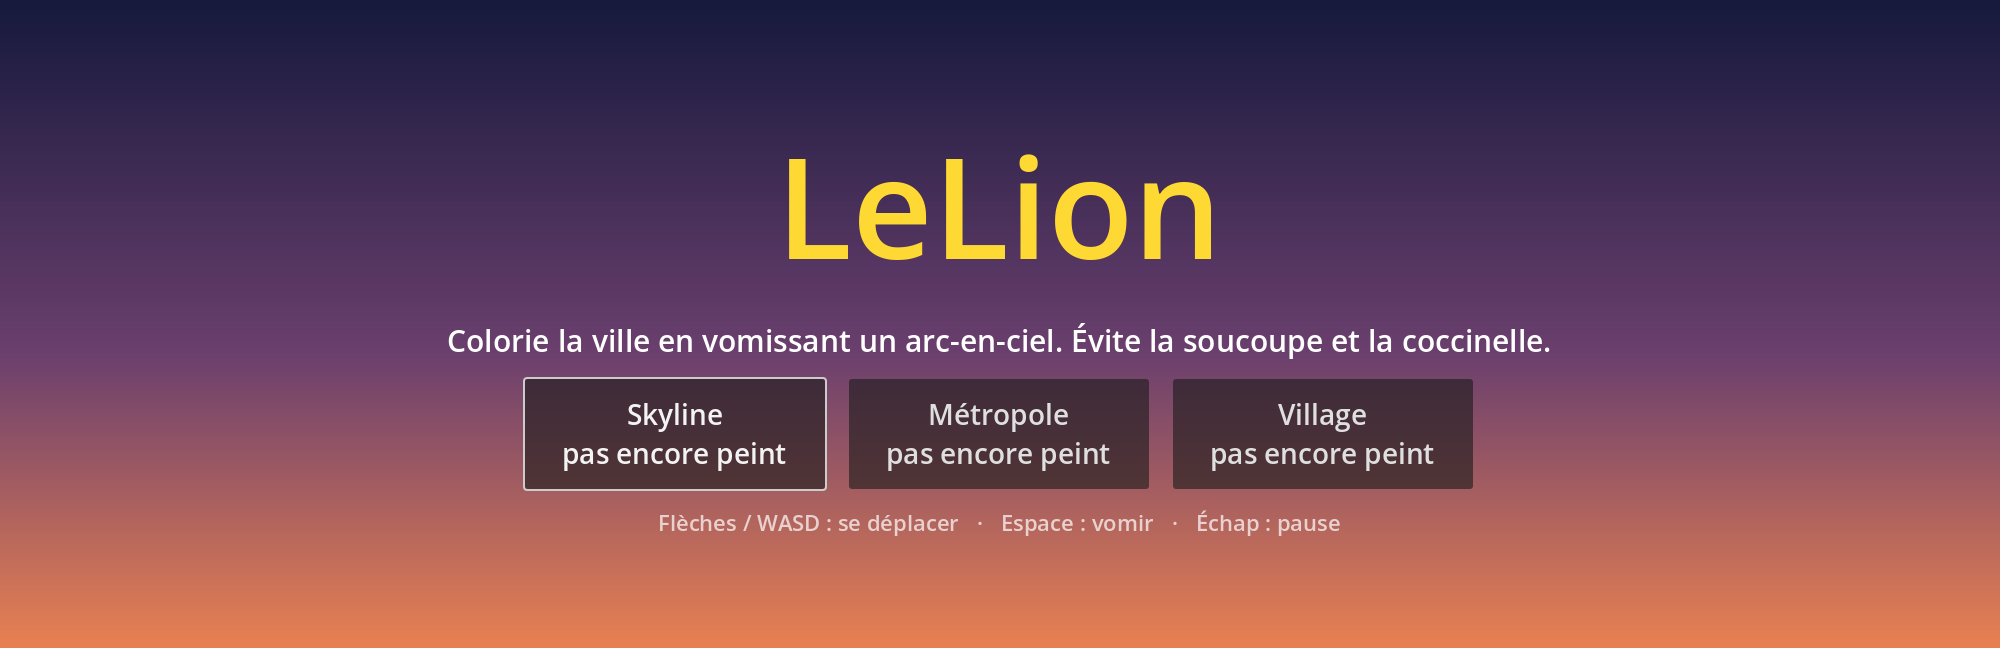
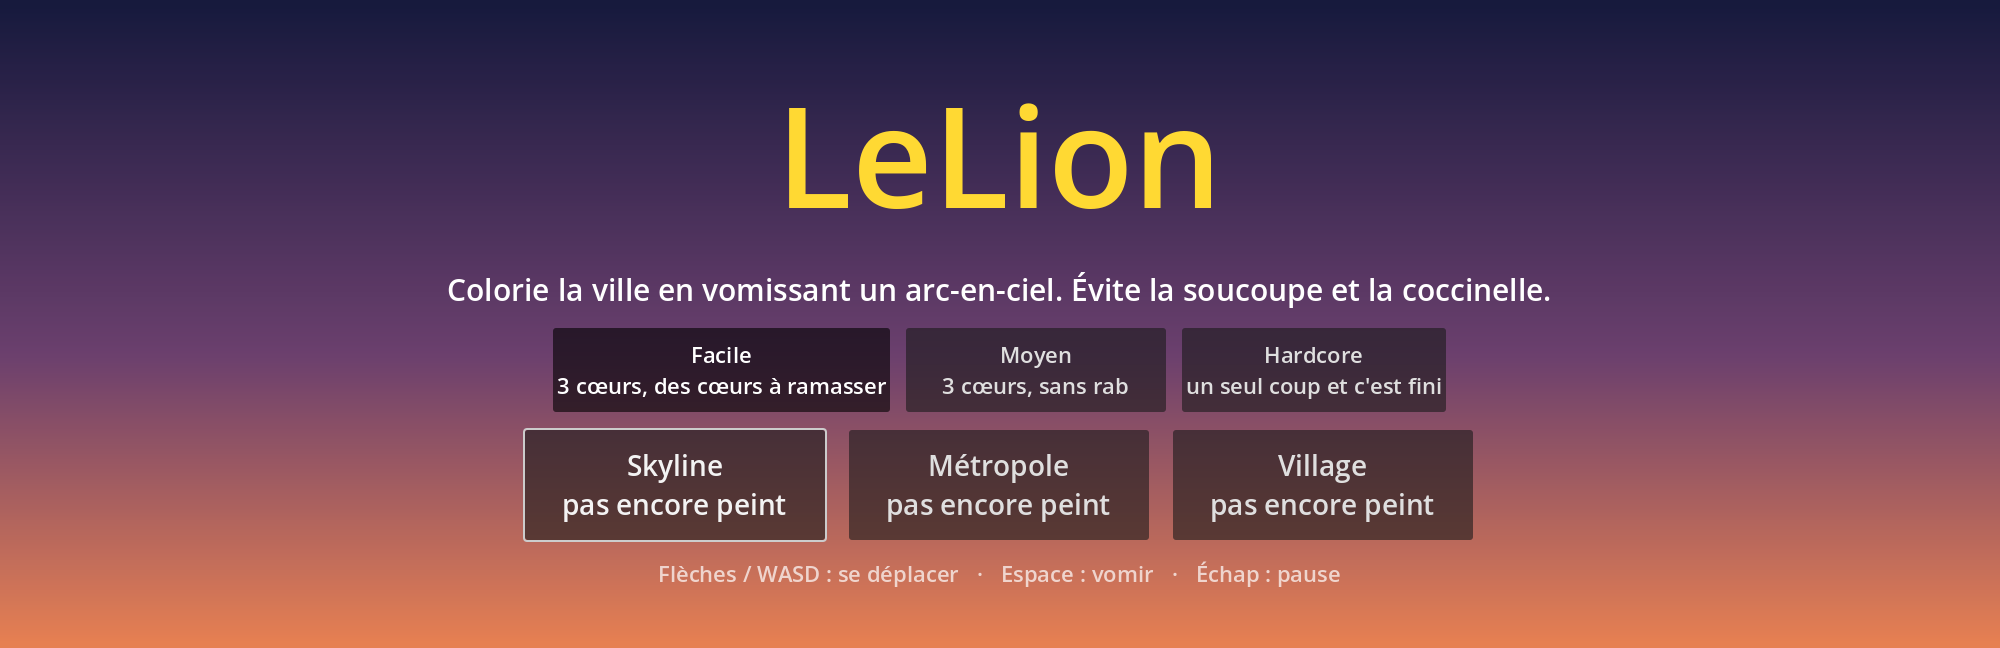
Modes de difficulté : Facile, Moyen, Hardcore
- GameState : DIFFICULTES, vies, toucher_lion() avec 1,5 s d'invulnérabilité, gagner_vie()
- Facile : 3 cœurs + cœurs à ramasser (CoeurPickup, sprite généré) ; Moyen : 3 cœurs ;
  Hardcore : un seul coup
- Lion : clignote pendant l'invulnérabilité ; ennemis : passent par toucher_lion()
- HUD : cœurs (perdus en grisé, masqués au-delà du maximum de la difficulté)
- Titre : rangée de choix de difficulté au-dessus des niveaux, records par niveau/difficulté
- smoke test : 52 assertions

diff --git a/tools/generer_skylines.py b/tools/generer_skylines.py
@@ -1,6 +1,6 @@
 #!/usr/bin/env python3
 """Génère des silhouettes de skyline (PNG RGBA, bâtiments noirs sur fond transparent)
-dans Assets/Sprites, ainsi que le sprite du bonus Gerbe XXL.
+dans Assets/Sprites, ainsi que les sprites du bonus Gerbe XXL (étoile) et de vie (cœur).
 
 Usage : python3 tools/generer_skylines.py
 """
@@ -135,7 +135,21 @@ def etoile(taille=64):
     t.png(DOSSIER / "etoile.png", couleur=(255, 255, 255))
 
 
+def coeur(taille=64):
+    """Cœur blanc (à teinter par modulate) : deux disques et un triangle."""
+    t = Toile(taille, taille)
+    for y in range(taille):
+        for x in range(taille):
+            # équation implicite du cœur, repère centré, y vers le haut
+            px = (x - taille / 2 + 0.5) / (taille * 0.42)
+            py = -(y - taille / 2 + 0.5) / (taille * 0.42) + 0.15
+            if (px * px + py * py - 1) ** 3 - px * px * py ** 3 <= 0:
+                t.a[y][x] = 255
+    t.png(DOSSIER / "coeur.png", couleur=(255, 255, 255))
+
+
 if __name__ == "__main__":
     metropole()
     village()
     etoile()
+    coeur()

diff --git a/README.md b/README.md
@@ -14,8 +14,11 @@ en survolant la ville. La partie est gagnée quand 85 % de la skyline est peinte
 Une soucoupe ou une coccinelle qui te touche, et c'est terminé. Les ennemis arrivent de
 plus en plus vite à mesure que la ville se colore.
 
-Trois niveaux (Skyline, Métropole, Village) se choisissent depuis l'écran titre, qui affiche
-ton meilleur temps sur chacun. Une étoile arc-en-ciel apparaît de temps en temps : ramasse-la
+Trois difficultés se choisissent sur l'écran titre : **Facile** (3 cœurs, des cœurs à
+ramasser réapparaissent), **Moyen** (3 cœurs, sans rab) et **Hardcore** (un seul coup et
+c'est fini). Après un coup, le lion clignote et reste invulnérable une seconde et demie.
+Puis trois niveaux (Skyline, Métropole, Village), avec ton meilleur temps pour la difficulté
+choisie. Une étoile arc-en-ciel apparaît de temps en temps : ramasse-la
 pour doubler la largeur de ta gerbe pendant huit secondes.
 
 | Action | Clavier | Manette |
@@ -36,12 +39,12 @@ godot .
 ## Structure
 
 ```
-Scenes/     Titre, Main (partie), Lion, Ville, HUD, GameOver, ColorPickup, BonusPickup, Soucoupe, Coccinelle
-Scripts/    un script par scène + autoloads GameState (partie, niveaux), Scores (records), Audio (sons)
+Scenes/     Titre, Main (partie), Lion, Ville, HUD, GameOver, ColorPickup, BonusPickup, CoeurPickup, Soucoupe, Coccinelle
+Scripts/    un script par scène + autoloads GameState (partie, vies, niveaux, difficultés), Scores (records), Audio (sons)
 Shaders/    Ville.gdshader : applique le masque de peinture sur la skyline
 Assets/     Sprites (utilisés), Sons (générés), src (matériel de référence, ignoré par Godot)
 tests/      smoke_test.gd (headless) et screenshots.gd (captures pilotées)
-tools/      generer_sons.py (effets sonores) et generer_skylines.py (skylines, étoile)
+tools/      generer_sons.py (effets sonores) et generer_skylines.py (skylines, étoile, cœur)
 ```
 
 La peinture est un masque RGBA de la taille de la skyline, tamponné par blit natif là où
